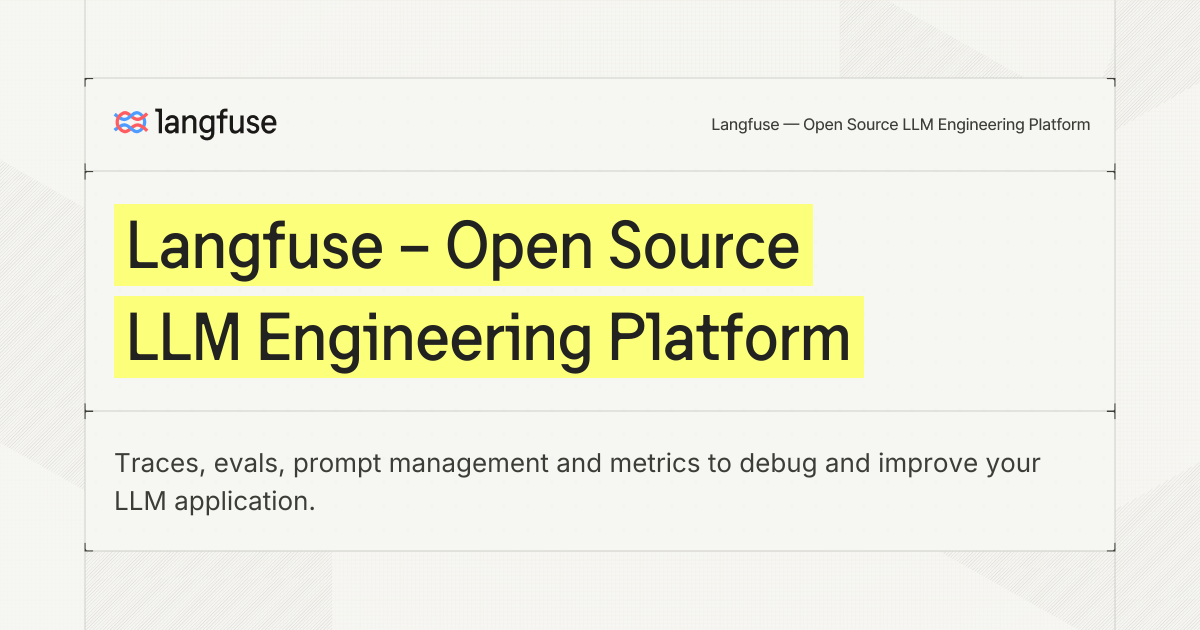
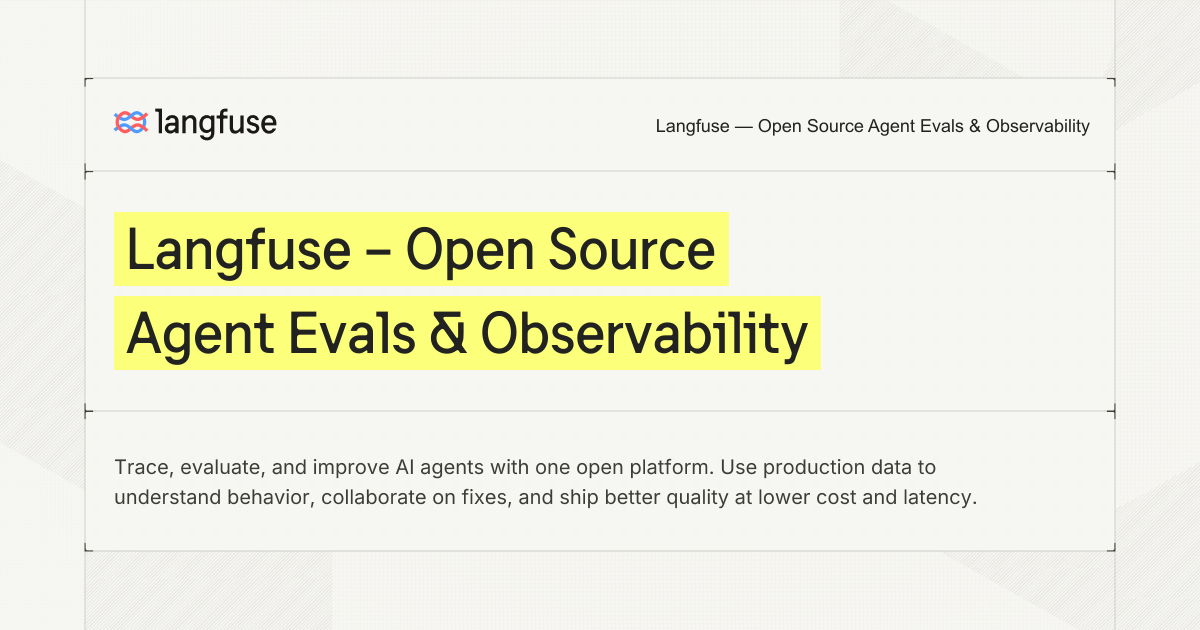
Remove platform for from homepage OG header

diff --git a/components/home/Hero.tsx b/components/home/Hero.tsx
@@ -32,13 +32,7 @@ export function Hero() {
           <span className="flex min-[500px]:inline">
             <TextHighlight
               highlightClassName="mix-blend-multiply"
-              className="max-[499px]:pr-1.75"
-            >
-              Platform for
-            </TextHighlight>
-            <TextHighlight
-              highlightClassName="mix-blend-multiply"
-              className="min-[500px]:pr-2"
+              className="whitespace-nowrap min-[500px]:pr-2"
             >
               Agent Evals &amp;
             </TextHighlight>

diff --git a/lib/og-url.ts b/lib/og-url.ts
@@ -7,7 +7,7 @@ export const SITE_DEFAULT_OG_DESCRIPTION =
 /** Root layout default Open Graph / Twitter image (dynamic wordmark card). */
 export function buildDefaultSiteOgImageUrl(): string {
   return `${BASE_URL}/api/og?${new URLSearchParams({
-    title: "Langfuse – Open Source Platform for Agent Evals & Observability",
+    title: "Langfuse – Open Source Agent Evals & Observability",
     description: SITE_DEFAULT_OG_DESCRIPTION,
   }).toString()}`;
 }